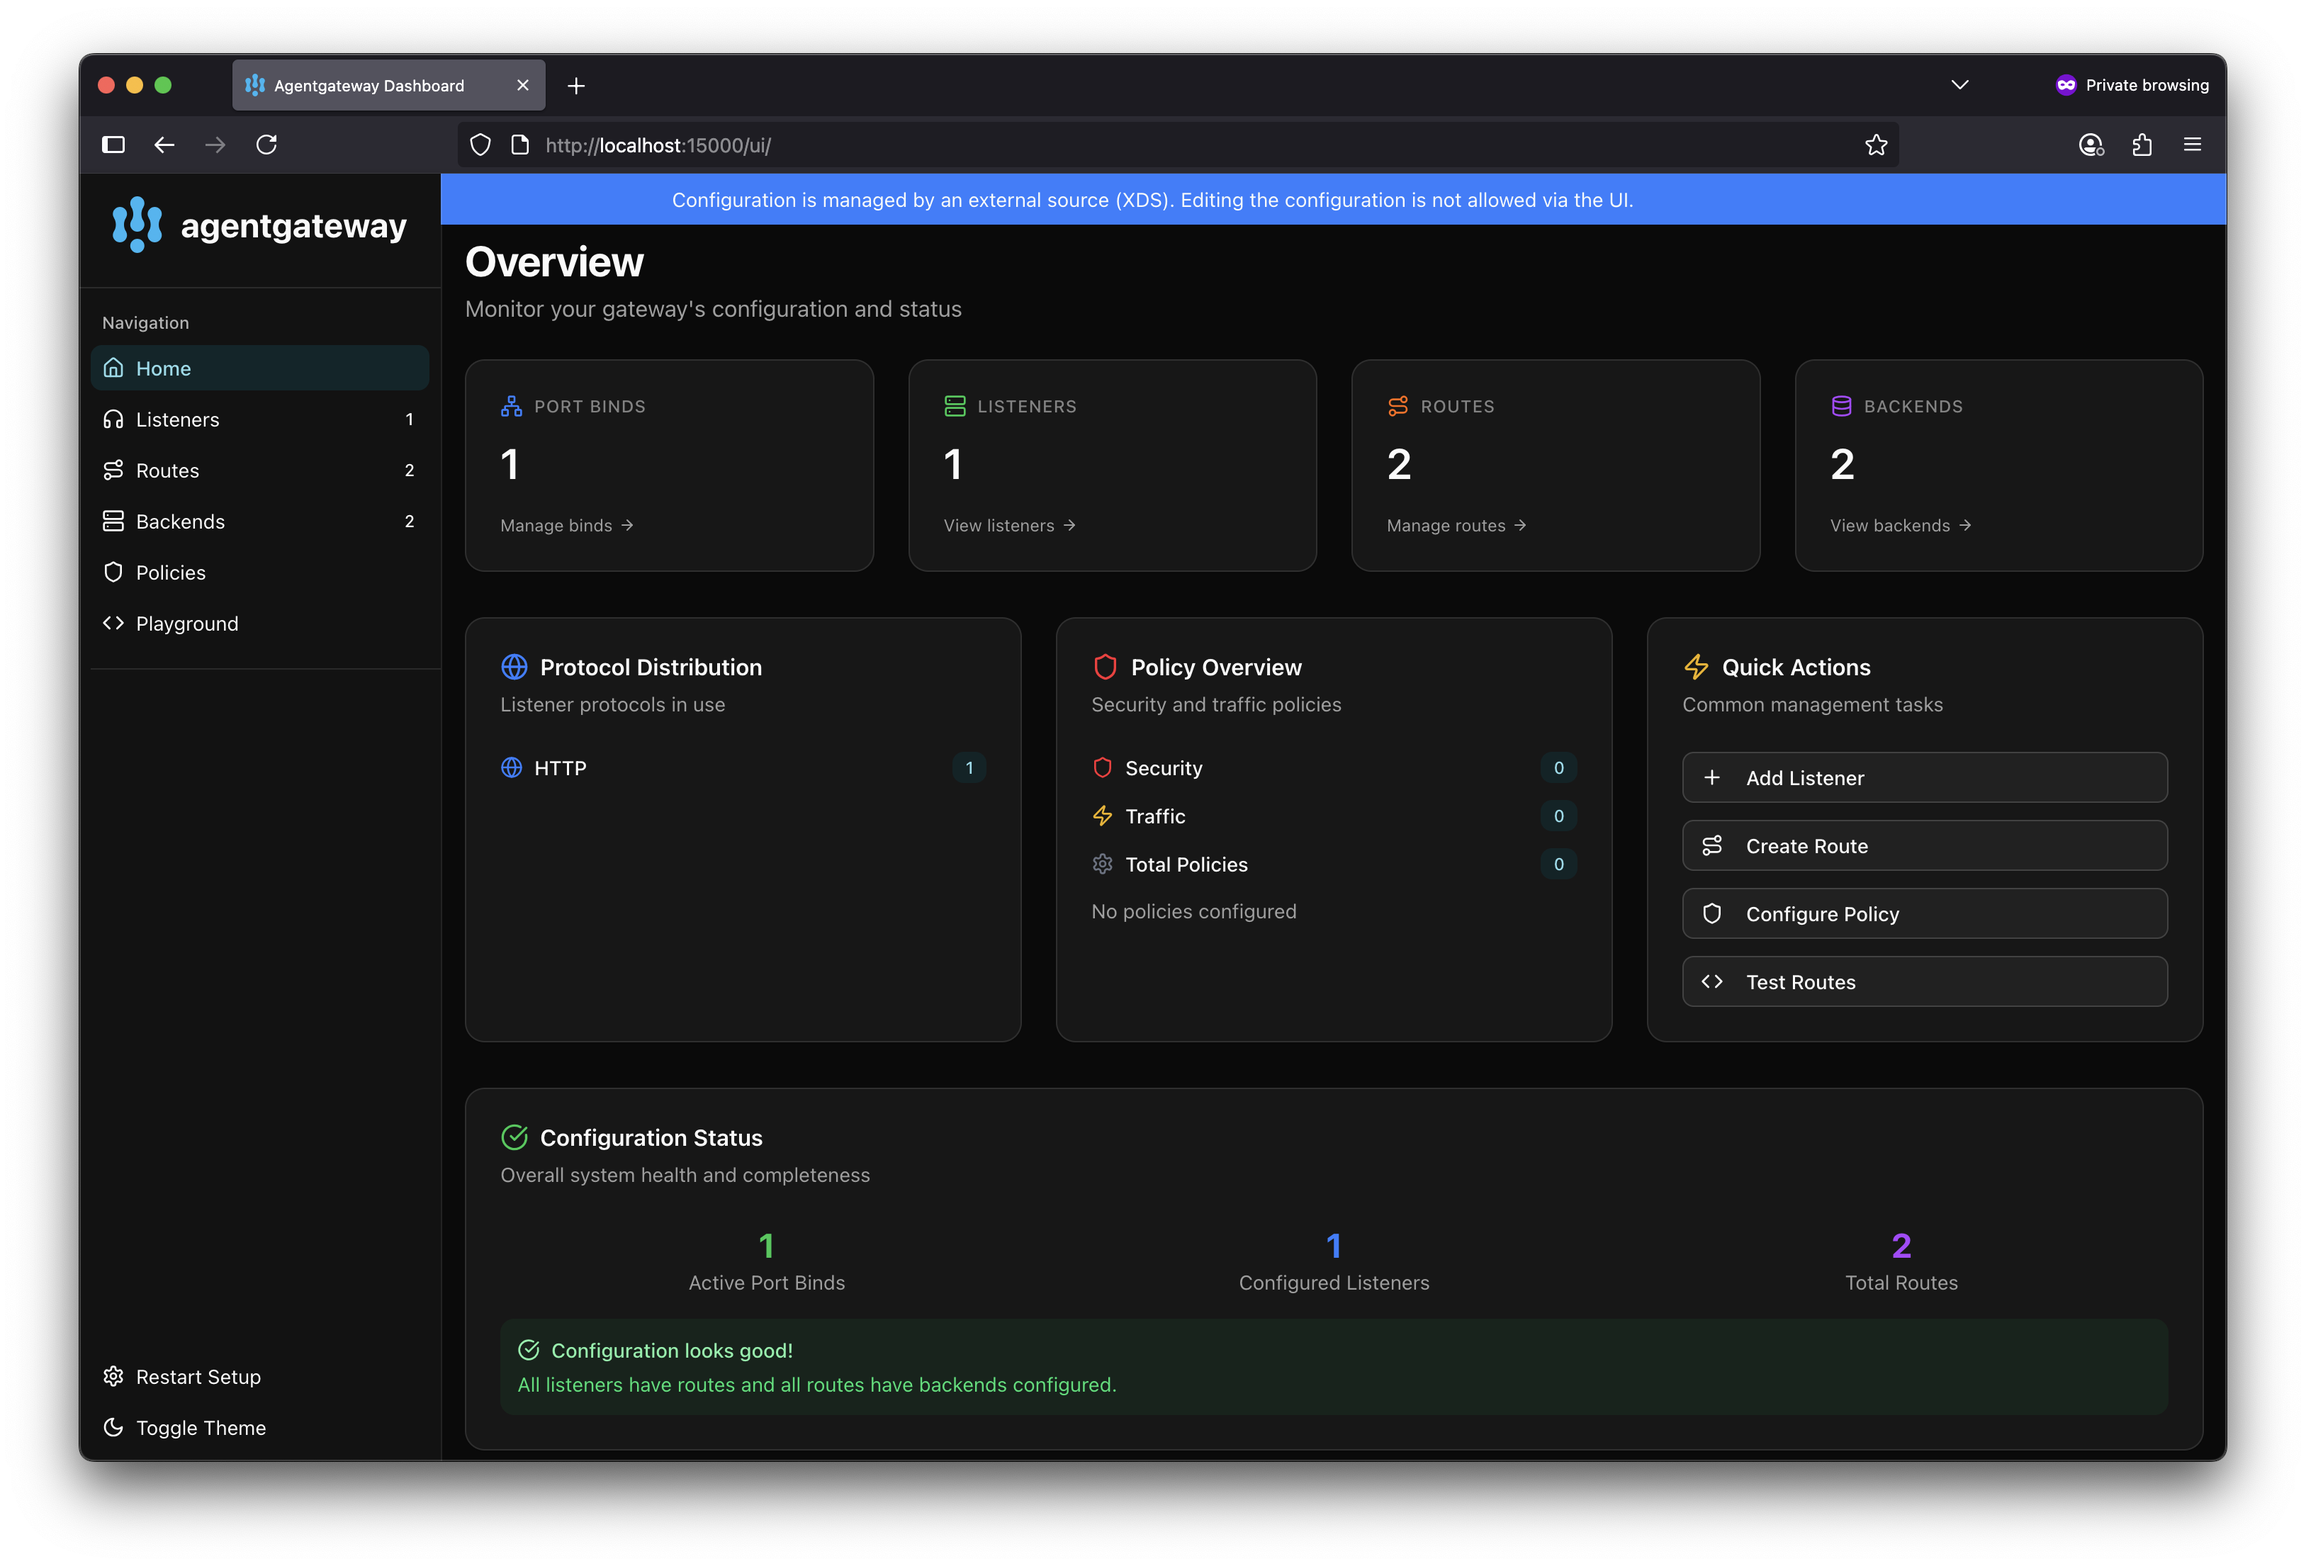
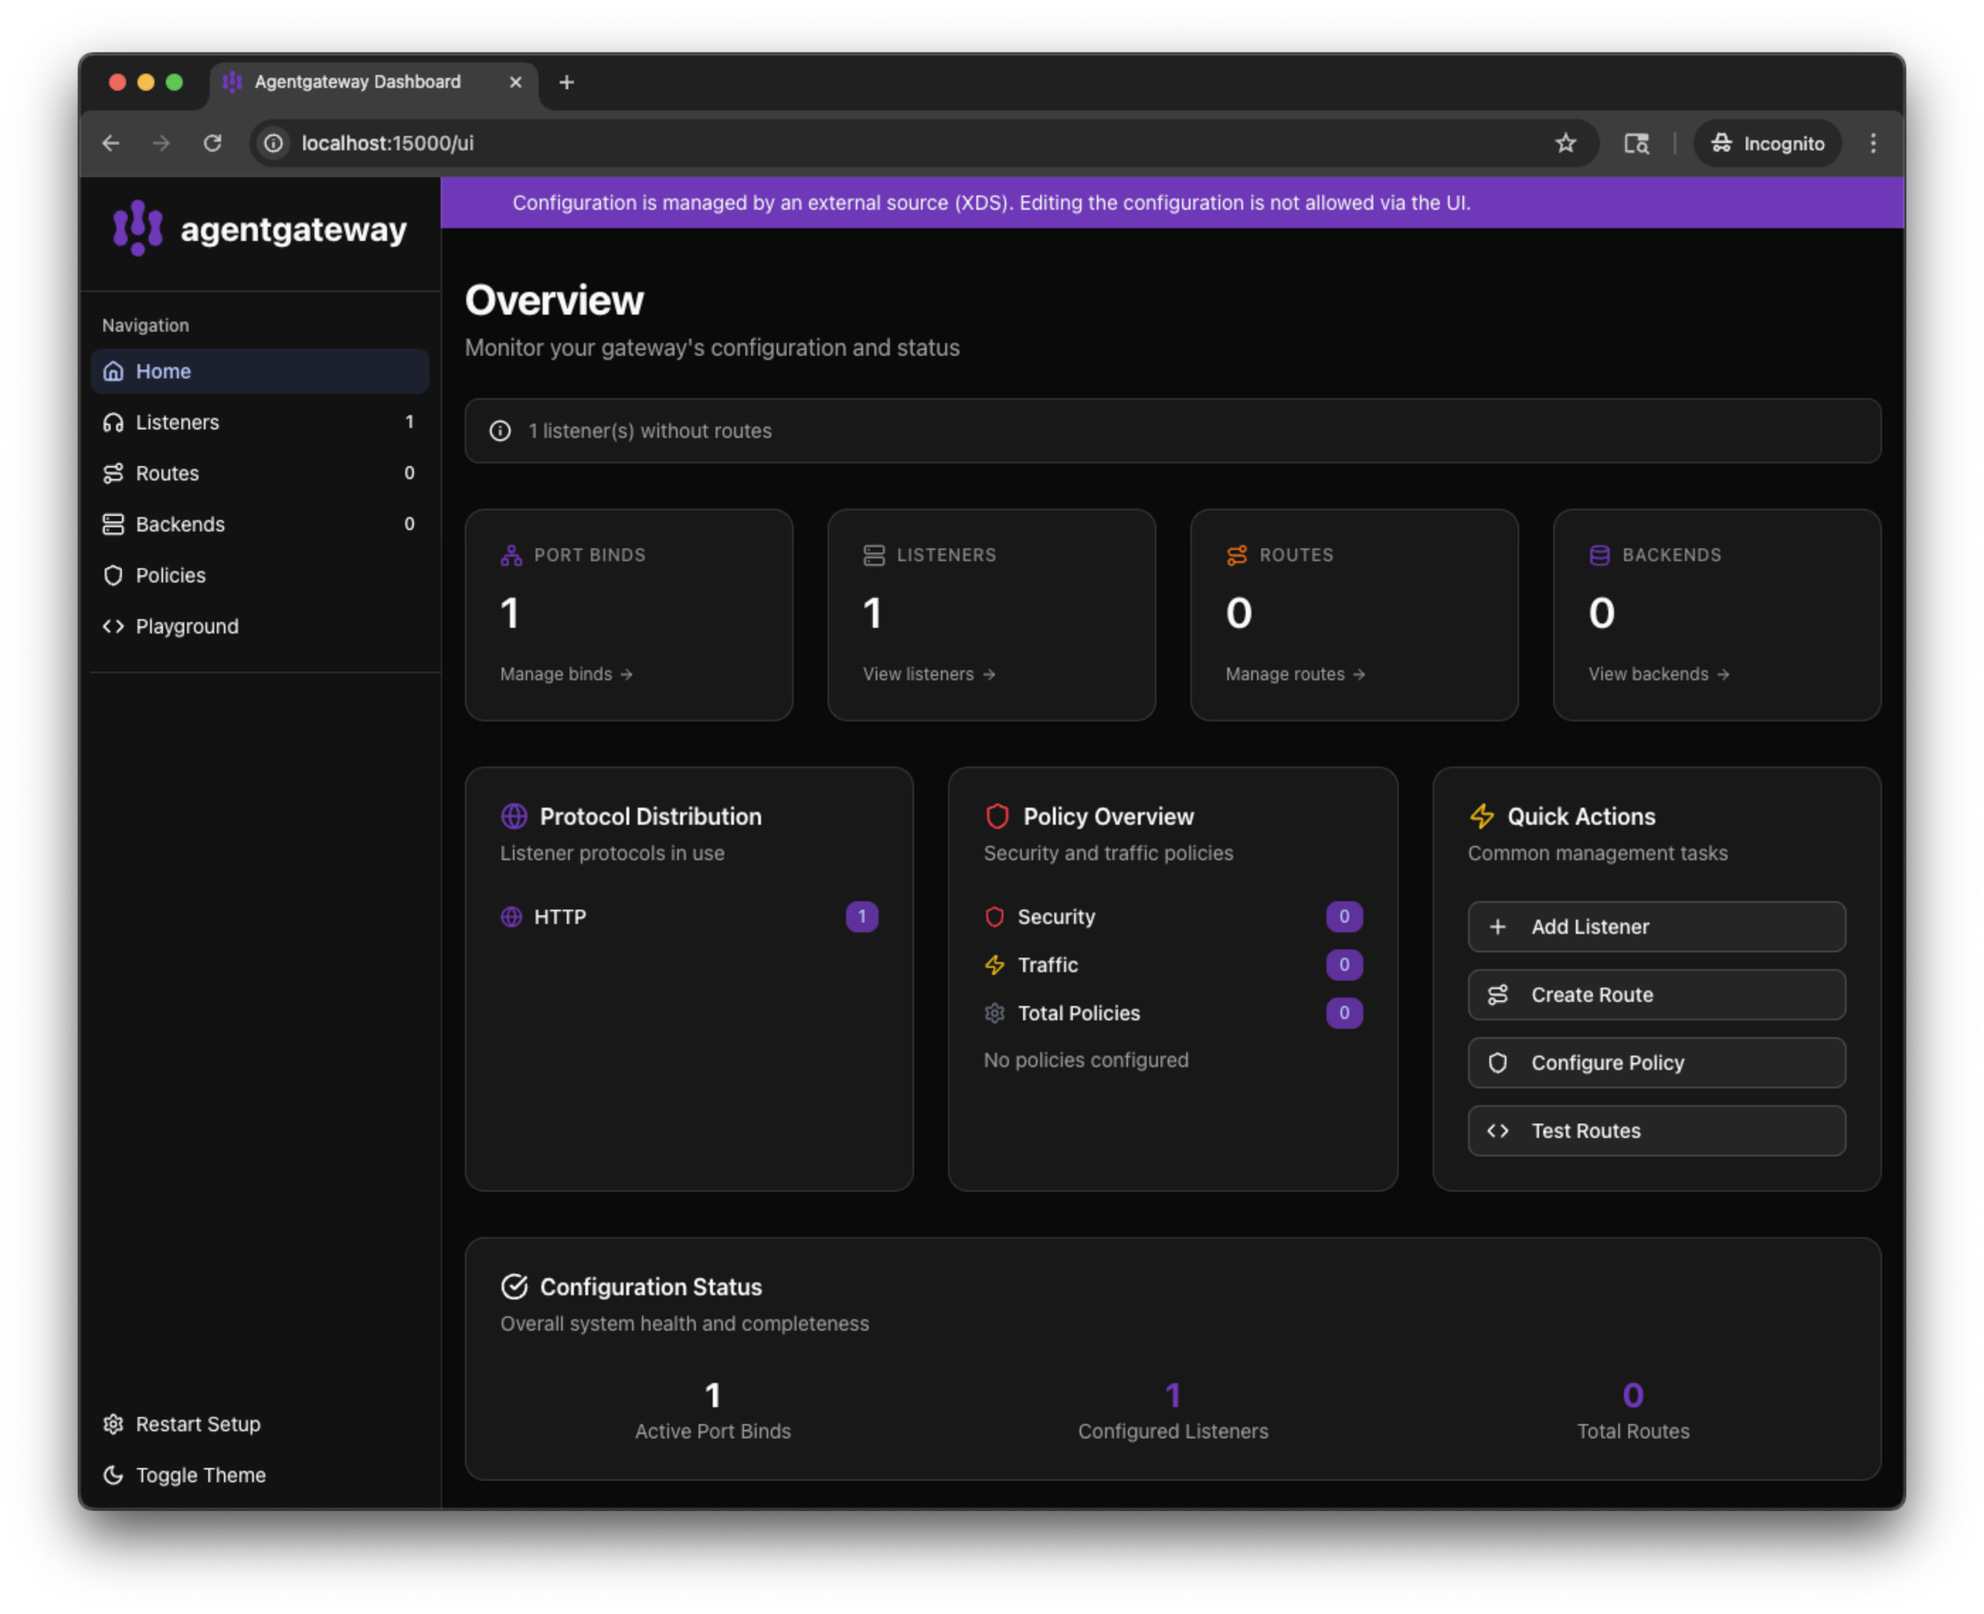
add agw to debug
see slack: https://solo-io-corp.slack.com/archives/C08P050QFGF/p1758311907870049

diff --git a/content/docs/main/operations/debug.md b/content/docs/main/operations/debug.md
@@ -59,6 +59,8 @@ Use built-in tools to troubleshoot issues in your {{< reuse "/docs/snippets/kgat
 
 3. Access the debugging interface of your gateway proxy on your localhost. Configuration might be missing on the gateway or might be applied to the wrong route. For example, if you apply multiple policies to the same route by using the `targetRefs` section, only the oldest policy is applied. The newer policy configuration might be ignored and not applied to the gateway.
    
+   {{< tabs items="Envoy-based kgateway,agentgateway" tabTotal="2" >}}
+   {{% tab tabName="Envoy-based kgateway" %}}
    ```sh
    kubectl port-forward deploy/http -n {{< reuse "docs/snippets/namespace.md" >}} 19000 &  
    ```
@@ -71,10 +73,28 @@ Use built-in tools to troubleshoot issues in your {{< reuse "/docs/snippets/kgat
    Common endpoints that can help troubleshoot your setup further, include: 
    | Endpoint | Description| 
    | -- | -- | 
-   | config_dump | Get the configuration that is available in the Envoy proxy. Any kgateway resources that you create are translated in to Envoy configuration. Depending on whether or not you enabled resource validation, you might have applied invalid configuration that is rejected Envoy. You can also use `{{< reuse "docs/snippets/cli-name.md" >}} proxy dump` to get the Envoy proxy configuration. | 
+   | config_dump | Get the configuration that is available in the Envoy proxy. Any kgateway resources that you create are translated in to Envoy configuration. Depending on whether or not you enabled resource validation, you might have applied invalid configuration that is rejected in Envoy. You can also use `{{< reuse "docs/snippets/cli-name.md" >}} proxy dump` to get the Envoy proxy configuration. | 
    | listeners | See the listeners that are configured on your gateway. | 
    | logging | Review the log level that is set for each component. |  
    | stats/prometheus | View metrics that Envoy emitted and sent to the built-in Prometheus instance. |
+   {{% /tab %}}
+   {{% tab tabName="agentgateway" %}}
+   ```sh
+   kubectl port-forward deploy/agentgateway -n {{< reuse "docs/snippets/namespace.md" >}} 15000 &  
+   ```
+
+   Open your browser to the following endpoints.
+
+   | Endpoint | Description| 
+   | -- | -- | 
+   | [http://localhost:15000/config_dump](http://localhost:15000/config_dump) | Get the configuration that is available in the agentgateway proxy. Any custom resources that you create are translated in to agentgateway configuration. Depending on whether or not you enabled resource validation, you might have applied invalid configuration that is rejected in agentgateway. | 
+   | [http://localhost:15000/ui](http://localhost:15000/ui) | A read-only user interface to review the agentgateway resources in your environment, such as listeners, routes, backends, and policies. | 
+
+   {{< reuse-image src="img/agw-ui-landing.png" caption="Figure: Read-only agentgateway UI.">}}
+   {{< reuse-image-dark srcDark="img/agw-ui-landing-dark.png" caption="Figure: Read-only agentgateway UI.">}}
+
+   {{% /tab %}}
+   {{< /tabs >}}
 
 4. Review the logs for each component. Each component logs the sync loops that it runs, such as syncing with various environment signals like the Kubernetes API. You can fetch the latest logs for all the components with the following command.
 
